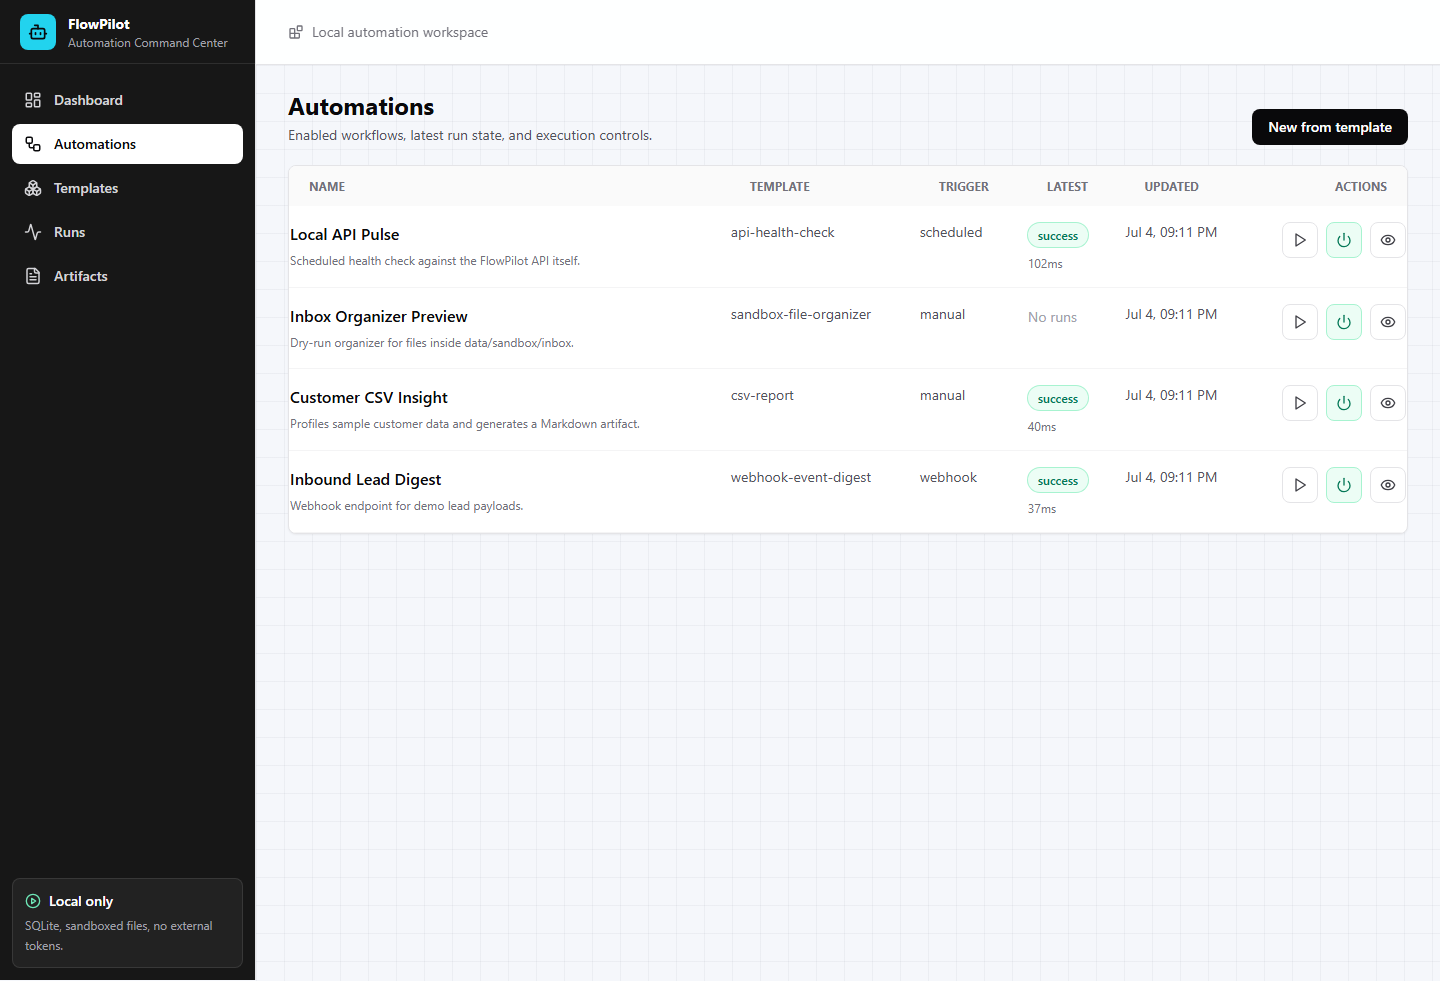
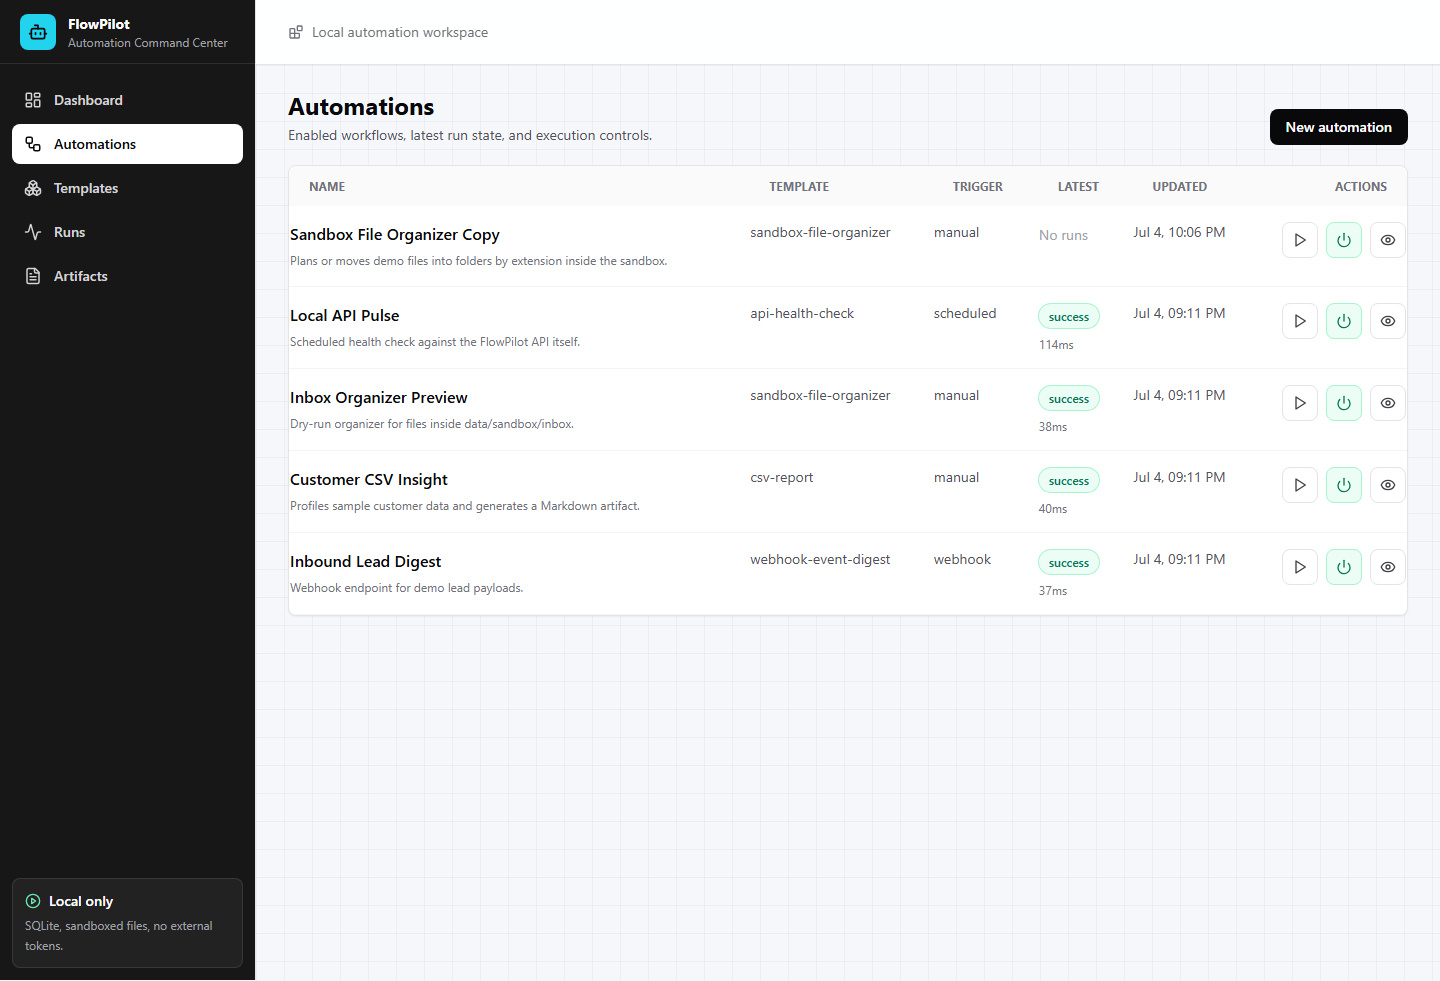
docs: add automation builder screenshot

diff --git a/apps/web/scripts/capture-screenshots.ts b/apps/web/scripts/capture-screenshots.ts
@@ -16,5 +16,8 @@ await page.screenshot({ path: path.join(outputDir, "dashboard.png"), fullPage: t
 await page.goto(`${webUrl}/automations`, { waitUntil: "networkidle" });
 await page.screenshot({ path: path.join(outputDir, "automations.png"), fullPage: true });
 
+await page.goto(`${webUrl}/automations/new?template=csv-report`, { waitUntil: "networkidle" });
+await page.screenshot({ path: path.join(outputDir, "builder.png"), fullPage: true });
+
 await browser.close();
 console.log(`Screenshots written to ${outputDir}`);